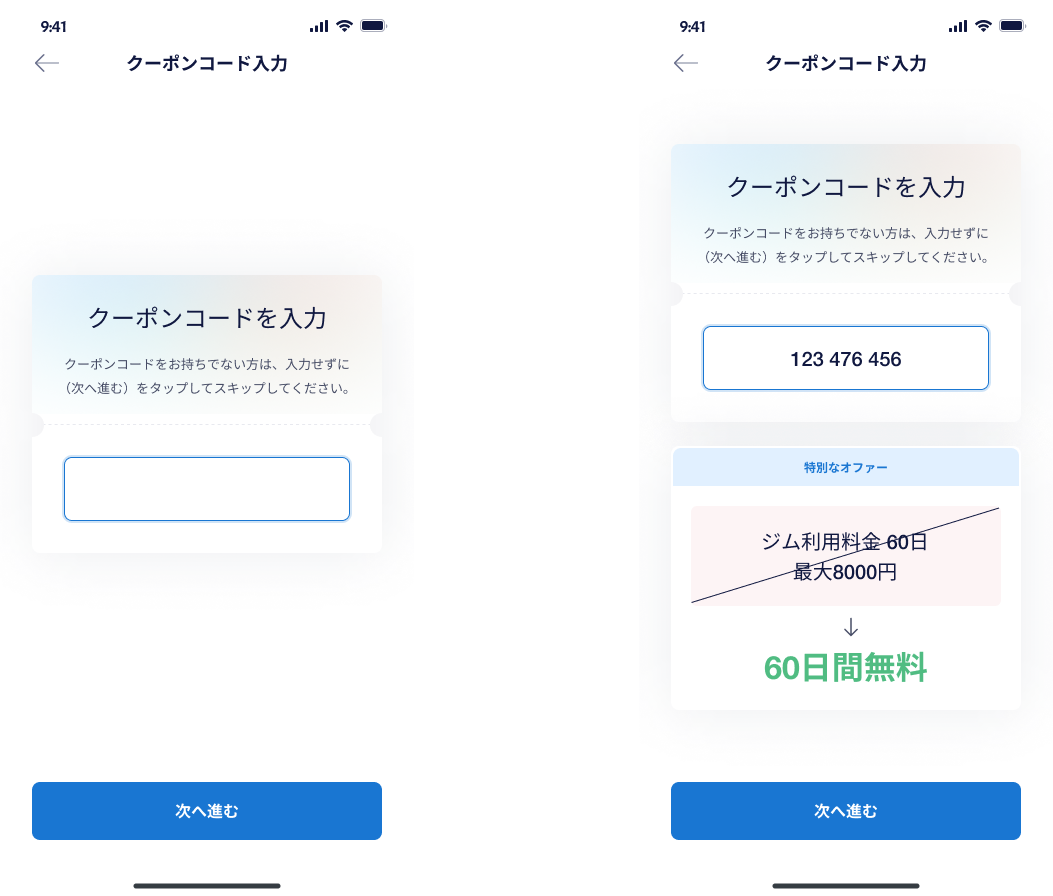
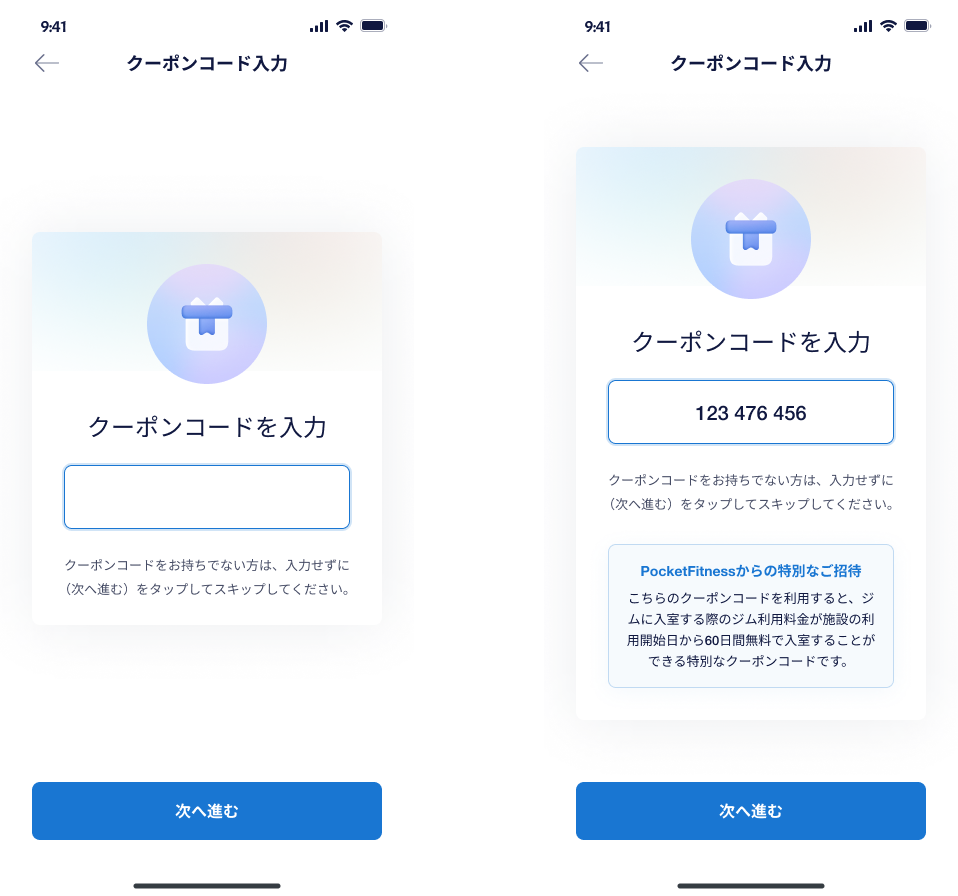
update coupon, checkin theo design mới

diff --git a/105-jp.md b/105-jp.md
@@ -72,21 +72,25 @@
 
 - ボタンをタップしたら、 **設定画面** 画面に移動される。
 
-##### ユーザーのQRコード`区画`
+##### QRコードスキャン `区画`
 
 ![nf](image/jp/mb/102mypage/active-coupon.png)
 
-- **ホーム**の画面に入ると、ユーザのQRコードが生成され、表示される。QRコードの有効期限は５分です。有効期限が切れたら、自動的に更新される。
--　クーポンの適応期間になっている時に、緑の区画が表示される。クーポン区画のAPIデータ：
-    - `60` : ジム利用料金無料日数
-    - `20日 16:06:09` : ジム利用料金無料期間までののこり期間までの残り日時。この日時は自動的にカウントダウンされる
-- このQRコードは、`Gate Keeper`のアプリにかざして、Pocketサービスを利用する。
-
-##### カメラでQRコードを読み取る場合はこちらをTAP   `ボタン`
-
+- このボタンは、ユーザーが未決済の支払いがない場合にのみ表示されます
 - タップしたら、
     - デバイスにカメラの許可が付与されている場合は、 **QRコードスキャン** 画面に移動される。 **チェックイン** ページに参考
     - デバイスにカメラの許可が付与されない場合は、カメラの許可をrリクエストするポップアップが表示される。許可するボタンタップしたら、 **QRコードスキャン** 画面に移動される。許可しないボタンをタップしたら、 **ホーム** 画面に戻る
+
+-　クーポンの適応期間になっている時に、緑の区画が表示される。クーポン区画のAPIデータ：
+    - `60` : ジム利用料金無料日数
+    - `20日 16:06:09` : ジム利用料金無料期間までののこり期間までの残り日時。この日時は自動的にカウントダウンされる
+
+##### 未決済の支払いの詳細を確認する `ボタン`
+
+![nf](image/jp/mb/102mypage/ng-user-confirm.png)
+
+- この区画は、ユーザーが未決済の支払いがある場合にのみ表示されます
+- ボタンをタップしたら、 **未決済の支払い確認** 画面に移動される。 
 
 ##### 現在お客様がご利用中の月額プラン `区画`
 
@@ -164,6 +168,34 @@
 
 - ユーザーチェックインしてから、このボタンが表示される。チェックアウトしたら、このボタンが消される。
 - このボタンをタップしたら、 **トレーニングメーニュー作成** 画面に移動される。 **本日のトレーニングメーニュー** ページに参考。
+
+### エラー一覧（Error List）
+
+`None`
+
+## **未決済の支払い確認** 画面
+
+![nf](image/jp/mb/102mypage/error-payment-confirm.png)
+
+### 項目／イベント定義
+
+##### 未決済の支払い一覧 `区画`
+
+- ユーザーの未決済の支払い一覧を表示する
+- 未決済の支払いのAPIデータ：
+    - `2022/5/22 10:00`： 支払いできない日時
+    - `2022年5月23日から2022年6月22日の手ぶらde会員`：支払いの内容
+    - `1500`： 支払いの金額
+
+##### Line で直接相談する `ボタン`
+
+- このボタンは、Stripe エラー支払いに関する通知の詳細ページにのみ表示されます
+- このボタンをタップしたら、PocketのLineアプリを開く。端末にLineアプリがインストールされない場合は、ストアに移動される。
+- URL [https://lin.ee/6AI17uM]
+
+##### キャンセル `ボタン`
+
+- このボタンをタップしたら、 **ホーム** 画面に戻る
 
 ### エラー一覧（Error List）
 

diff --git a/105-vn.md b/105-vn.md
@@ -72,21 +72,25 @@
 
 - Tap nút này sẽ redirect qua màn hình **設定画面** 
 
-##### ユーザーのバーコード - User barcode `Block`
+##### QRコードスキャン `区画`
 
 ![nf](image/jp/mb/102mypage/active-coupon.png)
 
-- Khi vào màn hình **Home**, thì QR code của user sẽ được tạo và hiển thị. Thời hạn hiệu lực của QR code là 5 phút, và sau khi hết thời gian thì QR code sẽ được tự động tạo lại. 
--　Khi user đã dùng thành công coupon và coupon đang trong thời gian coupon hiệu lực thì block màu xanh lá cây sẽ được hiển thị. Khi block này đang hiển thị có nghĩ là khi user checkin sẽ không bị charge tiền mở cửa vào. API data của block coupon
-    - `60` : số ngày free tiền checkin của coupon
-    - `20日 16:06:09` : số ngày giờ còn lại cho đến khi coupon hết hiệu lực. ngày giờ này sẽ tự động đếm ngược
-- User dùng app `Gate Keeper` đọc QR code để sử dụng các dịch vụ mà Pocket cung cấp.
-
-##### カメラでQRコードを読み取る場合はこちらをTAP   `Button`
-
+- Nút này chỉ hiển thị khi user không có thanh toán lỗi nào
 - Khi tap vào nút này,
     - Nếu device đã có quyền camera thì di chuyển qua màn hình **Quét mã QR** . Tham khảo trang  **Check-in** 
     - Nếu device chưa có quyền camera thì hiển thị pop-up xin quyền camera. Tap vào nút `許可する` thì di chuyển qua màn hình **Quét mã QR** . Tap vào nút `許可しない` thì quay lại màn hình **Home** .
+
+-　Khi user đã dùng thành công coupon và coupon đang trong thời gian coupon hiệu lực thì block màu xanh lá cây sẽ được hiển thị. Khi block này đang hiển thị có nghĩ là khi user checkin sẽ không bị charge tiền mở cửa vào. API data của block coupon
+    - `60` : số ngày free tiền checkin của coupon
+    - `20日 16:06:09` : số ngày giờ còn lại cho đến khi coupon hết hiệu lực. ngày giờ này sẽ tự động đếm ngược
+
+##### 未決済の支払いの詳細を確認する - Confirm error payment `Button`
+
+![nf](image/jp/mb/102mypage/ng-user-confirm.png)
+
+- Block này chỉ hiển thị khi user đang có các thanh toán chưa hoàn tất
+- Tap nút này sẽ redirect qua màn hình  **Confirm error payment** 
 
 ##### Các plan/option `区画`
 
@@ -167,6 +171,34 @@
 - Tap nút này sẽ redirect qua màn hình **Tạo training menu** .　Tham khảo ở trang **Training menu** . 
 
 ### Error List
+
+`None`
+
+## Màn hình **Confirm error payment**
+
+![nf](image/jp/mb/102mypage/error-payment-confirm.png)
+
+### Định nghĩa các thành phần có Action 
+
+##### 未決済の支払い一覧 - List error payment `Block`
+
+- Hiển thị những thanh toán chưa hoàn tất của user
+- API data của các thanh toán lỗi：
+    - `2022/5/22 10:00`： ngày giờ thanh toán thất bại
+    - `2022年5月23日から2022年6月22日の手ぶらde会員`：Nội dung thanh toán
+    - `1500`： Số tiền thanh toán
+
+##### Line で直接相談する `Button`
+
+- nút này chỉ hiển thị ở trang chi tiết noti liên quan đến thanh toán lỗi Stripe
+- tap nút này sẽ mở app Line tài khoản Pocket Fitness.
+- URL [https://lin.ee/6AI17uM]
+
+##### キャンセル - Cancel `Button`
+
+- Tap nút này sẽ quay lại màn hình **Home** 
+
+### エラー一覧（Error List）
 
 `None`
 

diff --git a/107-vn.md b/107-vn.md
@@ -38,11 +38,12 @@
 
 ![nf](image/jp/mb/104check-in/entry-flow.png)
 
-- Tại màn hình này có 4 pattern như sau
+- Tại màn hình này có 5 pattern như sau
     - Case １：Khi chưa đạt mức tiền tối đa
     - Case ２：Sau khi charge tiền và check-in lần đầu, user có thể mở cửa vào free trong vòng 4h. Không liên quan đến việc user có check-out hay không. Ví dụ user checkin tuy nhiên 30 phút sau user checkout, thì vẫn có thể check-in free. Logic này để cho user có thể quay lại lấy đồ trong trường hợp để quên đồ trong phòng gym mà không cần phải trả tiền lại để mở cửa.
     - Case ３：Lần charge tiền cuối. Số tiền cần trả nhỏ hơn hoặc bằng số tiền sử dụng dịch vụ hiên tại
     - Case ４：Đã đạt mức tiền tối đa
+    - Case 5: Khi user đang trong thời gian free checkin của coupon. Case này sẽ không tính trường hợp 4h sau khi checkin
 
 ### Định nghĩa các thành phần có Action 
 
@@ -67,10 +68,13 @@
     - `松山姫原店`：Tên phòng gym
 - Case 4- API data：
     - `松山姫原店`：Tên phòng gym
+- Case ５- API data：
+    - `60` : số ngày free tiền checkin của coupon
+    - `20日 16:06:09` : số ngày giờ còn lại cho đến khi coupon hết hiệu lực. ngày giờ này sẽ tự động đếm ngược
 
 ##### Thông tin mức tiền tối đa `Block nền màu xanh lá`
 
-- Case １・２：2 case này không có hiển thị block này
+- Case １・２・５：3 case này không có hiển thị block này
 - Case ３- API data：
     - `150`：Số tiền cần trả
     - `松山姫原店`：Tên phòng gym

diff --git a/107-jp.md b/107-jp.md
@@ -38,11 +38,12 @@
 
 ![nf](image/jp/mb/104check-in/entry-flow.png)
 
-- 今画面にて、4つパータンが想定される。
+- 今画面にて、５つパータンが想定される。
     - ケース１：通常
     - ケース２：チェックアウトを問わず、４時間以内再入室
     - ケース３：最終課金。支払う金額が現在利用料金より少ない
     - ケース４：上限料金達成後
+    - ケース５：クーポン適応期間中。チェックインから4時間経過した場合はこのケースに当てはまりません
 
 ### 項目／イベント定義
 
@@ -67,10 +68,13 @@
     - `松山姫原店`：店舗名
 - ケース4- API データ：
     - `松山姫原店`：店舗名
+- ケース５- API データ：
+    - `60` : ジム利用料金無料日数
+    - `20日 16:06:09` : ジム利用料金無料期間までののこり期間までの残り日時。この日時は自動的にカウントダウンされる
 
 ##### 上限金額情報　`緑背景区画`
 
-- ケース１・２：この区画が表示されない表示されない
+- ケース１・２・５：この区画が表示されない表示されない
 - ケース３- API データ：
     - `150`：支払う金額
     - `松山姫原店`：店舗名

diff --git a/102-vn.md b/102-vn.md
@@ -80,7 +80,8 @@
 
 ##### クーポン詳細- Coupon detail `Block`
 
-- Đang cập nhập UI nên không cần làm chi tiết
+![nf](image/jp/mb/101member/coupon-detail.png)
+
 - Chỉ được hiển thị nếu user nhập mã coupon đúng
 - APIデータ
     - `60` : Số ngày free checkin của coupon
@@ -177,6 +178,14 @@
 
 - Hiển thị thông tin plan/option mã user đang chọn
 - Tap vào nút `オプション変更` sẽ quay lại màn hình　**オプション選択** . Ở màn hình **オプション選択** phần calendar nếu tap nút `OK` sẽ quay lại màn hình này
+
+##### クーポン- Coupon `Block`
+
+- Hiển thị thông tin coupon mà user đã nhập vào
+- APIデータ：
+    - `123 476 456`：　Mã coupon
+    - `60`：　Số ngày free checkin của coupon
+    - `2022年12月3日~2022年4月3日`：　Thời gian free checkin khi sử dụng coupon. Format: YYYY年mm月dd日 ~ YYYY年mm月dd日
 
 ##### 支払い `Block`
 

diff --git a/102-jp.md b/102-jp.md
@@ -80,7 +80,8 @@
 
 ##### クーポン詳細 `区画`
 
-- デザイン更新予定
+![nf](image/jp/mb/101member/coupon-detail.png)
+
 - 有効なクーポンが入力されたら、この区画が再現される
 - APIデータ
     - `60` : ジム利用料金無料日数
@@ -177,6 +178,14 @@
 
 - ユーザーが選択したプラン・オプションを表示する
 - `オプション変更`ボタンをタップしたら、　**オプション選択** 画面に戻る。**オプション選択** 画面のカレンダーポップアップで`OK`ボタンをタップしたら、この画面に戻る。
+
+##### クーポン `区画`
+
+- ユーザーが入力されたクーポンを表示する
+- APIデータ：
+    - `123 476 456`：　クーポンコード
+    - `60`：　ジム利用料金無料日数
+    - `2022年12月3日~2022年4月3日`：　クーポンの適応期間。フォマット: YYYY年mm月dd日 ~ YYYY年mm月dd日
 
 ##### 支払い `区画`
 

diff --git a/307-vn.md b/307-vn.md
@@ -118,7 +118,7 @@
 
 #### 店舗名 - Gym name `Input`
 
-- Input này không chọn và sửa được
+- Input này là cố định, không sửa được
 
 #### ゲート名 - Gate name `Input`
 
